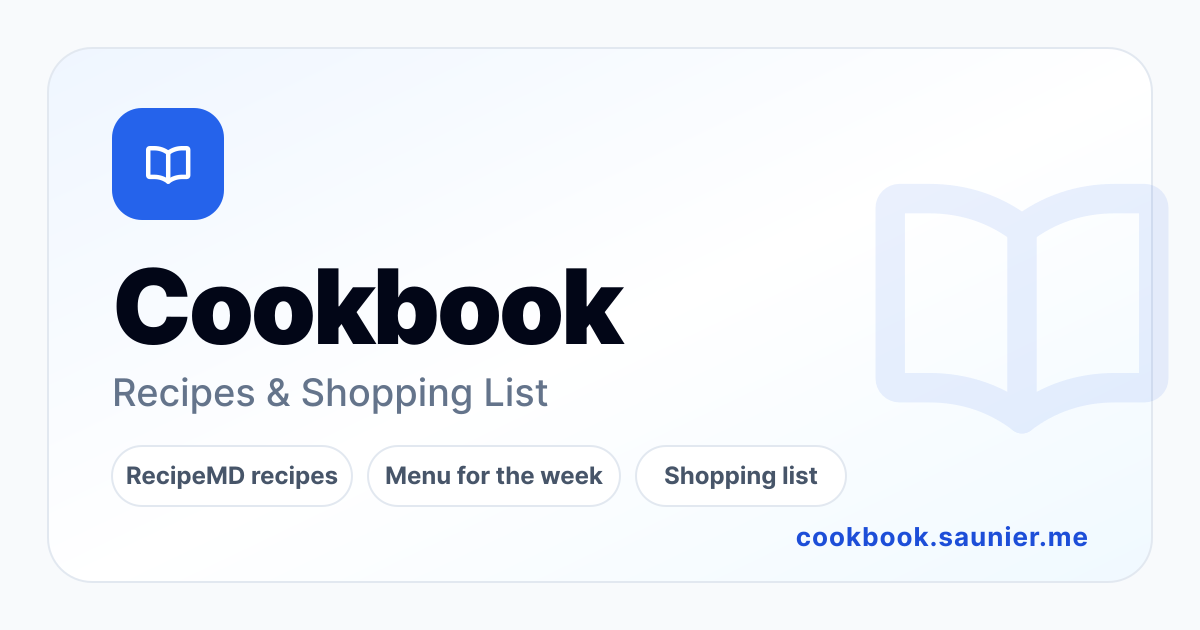
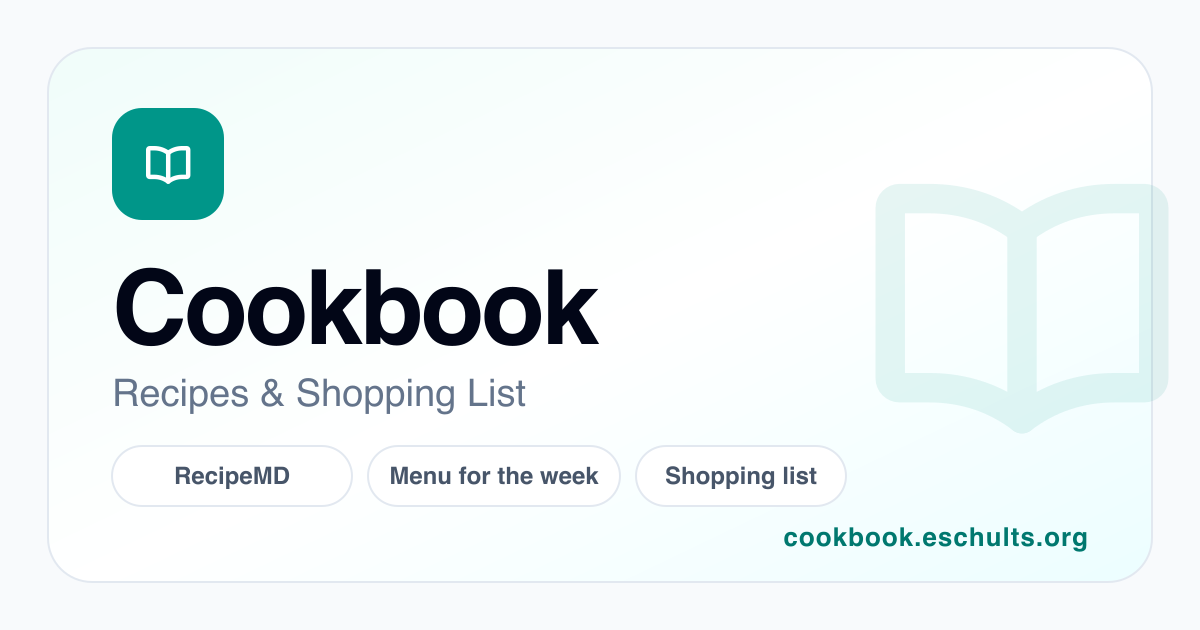
Change primary color to differentiate from original project

diff --git a/src/views/RecipeShowView.vue b/src/views/RecipeShowView.vue
@@ -45,7 +45,7 @@ function added(multiplier) {
     <RouterLink to="/" class="text-sm font-bold text-slate-400 hover:text-slate-700">← {{ t('recipe.back') }}</RouterLink>
 
     <article class="mt-5 overflow-hidden rounded-[2rem] border border-slate-200 bg-white shadow-sm">
-      <header class="border-b border-slate-100 bg-gradient-to-br from-blue-50 via-white to-sky-50 p-6 sm:p-10">
+      <header class="border-b border-slate-100 bg-gradient-to-br from-teal-50 via-white to-cyan-50 p-6 sm:p-10">
         <div class="flex flex-wrap gap-2">
           <span v-for="tag in recipe.tags" :key="tag" class="rounded-full bg-white px-3 py-1 text-xs font-bold text-slate-500 ring-1 ring-slate-200">{{ tag }}</span>
         </div>
@@ -57,7 +57,7 @@ function added(multiplier) {
           <button @click="showDialog = true" class="hidden shrink-0 rounded-2xl bg-slate-950 px-5 py-3 font-bold text-white shadow-sm transition hover:bg-slate-800 sm:block">＋ {{ t('recipe.addToList') }}</button>
         </div>
         <p v-if="recipe.description" class="mt-3 max-w-2xl whitespace-pre-line text-lg leading-8 text-slate-600">{{ recipe.description }}</p>
-        <p v-if="recipe.yields.length" class="mt-4 text-sm font-bold uppercase tracking-[0.14em] text-blue-700">
+        <p v-if="recipe.yields.length" class="mt-4 text-sm font-bold uppercase tracking-[0.14em] text-teal-700">
           {{ t('recipe.makes', { yields: recipe.yields.map(item => item.label).join(' · ') }) }}
         </p>
         <button @click="showDialog = true" class="mt-7 rounded-2xl bg-slate-950 px-5 py-3 font-bold text-white shadow-sm transition hover:bg-slate-800 sm:hidden">＋ {{ t('recipe.addToList') }}</button>
@@ -73,10 +73,10 @@ function added(multiplier) {
             <ul class="divide-y divide-slate-100">
               <li v-for="(ingredient, index) in group.items" :key="index" class="py-3">
                 <div class="flex gap-3">
-                  <span class="mt-2 size-2 shrink-0 rounded-full bg-blue-500"></span>
+                  <span class="mt-2 size-2 shrink-0 rounded-full bg-teal-500"></span>
                   <div>
                     <span v-if="ingredient.quantity != null" class="font-bold text-slate-900">{{ formatAmount(ingredient.quantity, ingredient.unit) }}</span>
-                    <a v-if="ingredient.link" :href="ingredient.link" target="_blank" rel="noreferrer" :class="['markdown font-medium text-blue-700 underline decoration-blue-300 underline-offset-2 hover:text-blue-800', { 'ml-1': ingredient.quantity != null }]" v-html="renderInline(displayName(ingredient))"></a>
+                    <a v-if="ingredient.link" :href="ingredient.link" target="_blank" rel="noreferrer" :class="['markdown font-medium text-teal-700 underline decoration-teal-300 underline-offset-2 hover:text-teal-800', { 'ml-1': ingredient.quantity != null }]" v-html="renderInline(displayName(ingredient))"></a>
                     <span v-else :class="['markdown font-medium text-slate-700', { 'ml-1': ingredient.quantity != null }]" v-html="renderInline(displayName(ingredient))"></span>
                   </div>
                 </div>
@@ -92,7 +92,7 @@ function added(multiplier) {
             <h3 v-if="group.title" class="text-xs font-black uppercase tracking-[0.14em] text-slate-400">{{ group.title }}</h3>
             <ol class="mt-3 space-y-4">
               <li v-for="(step, index) in group.steps" :key="index" class="flex gap-4">
-                <span class="grid size-8 shrink-0 place-items-center rounded-full bg-blue-100 text-sm font-black text-blue-800">{{ index + 1 }}</span>
+                <span class="grid size-8 shrink-0 place-items-center rounded-full bg-teal-100 text-sm font-black text-teal-800">{{ index + 1 }}</span>
                 <p class="markdown pt-1 font-medium leading-7 text-slate-700" v-html="renderInline(step)"></p>
               </li>
             </ol>
@@ -102,7 +102,7 @@ function added(multiplier) {
             <h3 class="text-xs font-black uppercase tracking-[0.14em] text-slate-400">{{ t('recipe.source', recipe.sources.length) }}</h3>
             <ul class="mt-2 space-y-1 text-sm">
               <li v-for="(source, index) in recipe.sources" :key="index">
-                <a v-if="source.url" :href="source.url" target="_blank" rel="noreferrer" class="text-blue-700 underline decoration-blue-300 underline-offset-2 hover:text-blue-800">{{ source.title }}</a>
+                <a v-if="source.url" :href="source.url" target="_blank" rel="noreferrer" class="text-teal-700 underline decoration-teal-300 underline-offset-2 hover:text-teal-800">{{ source.title }}</a>
                 <span v-else class="text-slate-500">{{ source.title }}</span>
               </li>
             </ul>
@@ -116,6 +116,6 @@ function added(multiplier) {
 
   <div v-else class="py-20 text-center">
     <h1 class="text-2xl font-black">{{ t('recipe.notFound') }}</h1>
-    <RouterLink to="/" class="mt-3 inline-block font-bold text-blue-600">{{ t('recipe.backToRecipes') }}</RouterLink>
+    <RouterLink to="/" class="mt-3 inline-block font-bold text-teal-600">{{ t('recipe.backToRecipes') }}</RouterLink>
   </div>
 </template>

diff --git a/src/components/AddShoppingItemDialog.vue b/src/components/AddShoppingItemDialog.vue
@@ -54,7 +54,7 @@ function submit() {
     <form @submit.prevent="submit" class="w-full max-w-md rounded-3xl bg-white p-6 shadow-2xl">
       <div class="flex items-start justify-between gap-4">
         <div>
-          <p class="text-xs font-black uppercase tracking-[0.18em] text-blue-600">{{ t('common.shoppingList') }}</p>
+          <p class="text-xs font-black uppercase tracking-[0.18em] text-teal-600">{{ t('common.shoppingList') }}</p>
           <h2 class="mt-1 text-2xl font-black text-slate-950">{{ t('addItem.title') }}</h2>
         </div>
         <button type="button" @click="$emit('cancel')" :aria-label="t('common.close')" class="rounded-xl p-2 text-slate-400 hover:bg-slate-100 hover:text-slate-700">✕</button>
@@ -70,7 +70,7 @@ function submit() {
           v-model="name"
           type="text"
           :placeholder="t('addItem.namePlaceholder')"
-          class="mt-2 w-full rounded-2xl border border-slate-200 px-4 py-3 text-lg font-bold outline-none focus:border-blue-400 focus:ring-4 focus:ring-blue-100"
+          class="mt-2 w-full rounded-2xl border border-slate-200 px-4 py-3 text-lg font-bold outline-none focus:border-teal-400 focus:ring-4 focus:ring-teal-100"
         />
       </div>
 
@@ -86,7 +86,7 @@ function submit() {
           type="text"
           inputmode="text"
           :aria-invalid="error ? 'true' : undefined"
-          :class="['mt-2 w-full rounded-2xl border px-4 py-3 text-lg font-bold outline-none focus:ring-4', error ? 'border-rose-300 focus:border-rose-400 focus:ring-rose-100' : 'border-slate-200 focus:border-blue-400 focus:ring-blue-100']"
+          :class="['mt-2 w-full rounded-2xl border px-4 py-3 text-lg font-bold outline-none focus:ring-4', error ? 'border-rose-300 focus:border-rose-400 focus:ring-rose-100' : 'border-slate-200 focus:border-teal-400 focus:ring-teal-100']"
         />
         <p v-if="error" class="mt-2 text-xs font-bold text-rose-600">{{ error }}</p>
         <p v-else class="mt-2 text-xs text-slate-400">{{ t('addItem.quantityHint') }}</p>
@@ -94,7 +94,7 @@ function submit() {
 
       <div class="mt-6 flex justify-end gap-2">
         <button type="button" @click="$emit('cancel')" class="rounded-2xl px-4 py-3 text-sm font-bold text-slate-500 hover:bg-slate-100">{{ t('common.cancel') }}</button>
-        <button type="submit" :disabled="!name.trim()" class="rounded-2xl bg-blue-600 px-5 py-3 text-sm font-black text-white hover:bg-blue-500 disabled:cursor-not-allowed disabled:bg-slate-200 disabled:text-slate-400">{{ t('addItem.add') }}</button>
+        <button type="submit" :disabled="!name.trim()" class="rounded-2xl bg-teal-600 px-5 py-3 text-sm font-black text-white hover:bg-teal-500 disabled:cursor-not-allowed disabled:bg-slate-200 disabled:text-slate-400">{{ t('addItem.add') }}</button>
       </div>
     </form>
   </div>

diff --git a/src/components/AddToShoppingListDialog.vue b/src/components/AddToShoppingListDialog.vue
@@ -50,7 +50,7 @@ function submit() {
     <div class="w-full max-w-md rounded-3xl bg-white p-6 shadow-2xl">
       <div class="flex items-start justify-between gap-4">
         <div>
-          <p class="text-xs font-black uppercase tracking-[0.18em] text-blue-600">{{ t('common.shoppingList') }}</p>
+          <p class="text-xs font-black uppercase tracking-[0.18em] text-teal-600">{{ t('common.shoppingList') }}</p>
           <h2 class="mt-1 text-2xl font-black text-slate-950">{{ t('dialog.scale', { title: recipe.title }) }}</h2>
         </div>
         <button @click="$emit('cancel')" :aria-label="t('common.close')" class="rounded-xl p-2 text-slate-400 hover:bg-slate-100 hover:text-slate-700">✕</button>
@@ -62,18 +62,18 @@ function submit() {
 
       <div v-if="hasServings" class="mt-5">
         <label class="text-sm font-bold text-slate-700">{{ t('dialog.people') }}</label>
-        <input v-model.number="servings" @input="syncMultiplier" min="0.1" step="0.5" type="number" class="mt-2 w-full rounded-2xl border border-slate-200 px-4 py-3 text-lg font-bold outline-none focus:border-blue-400 focus:ring-4 focus:ring-blue-100" />
+        <input v-model.number="servings" @input="syncMultiplier" min="0.1" step="0.5" type="number" class="mt-2 w-full rounded-2xl border border-slate-200 px-4 py-3 text-lg font-bold outline-none focus:border-teal-400 focus:ring-4 focus:ring-teal-100" />
       </div>
 
       <div class="mt-5">
         <label class="text-sm font-bold text-slate-700">{{ t('dialog.multiplier') }}</label>
-        <input v-model.number="multiplier" @input="syncServings" min="0.01" step="0.25" type="number" class="mt-2 w-full rounded-2xl border border-slate-200 px-4 py-3 text-lg font-bold outline-none focus:border-blue-400 focus:ring-4 focus:ring-blue-100" />
+        <input v-model.number="multiplier" @input="syncServings" min="0.01" step="0.25" type="number" class="mt-2 w-full rounded-2xl border border-slate-200 px-4 py-3 text-lg font-bold outline-none focus:border-teal-400 focus:ring-4 focus:ring-teal-100" />
         <p class="mt-2 text-xs text-slate-400">{{ example }}</p>
       </div>
 
       <div class="mt-6 flex justify-end gap-2">
         <button @click="$emit('cancel')" class="rounded-2xl px-4 py-3 text-sm font-bold text-slate-500 hover:bg-slate-100">{{ t('common.cancel') }}</button>
-        <button @click="submit" class="rounded-2xl bg-blue-600 px-5 py-3 text-sm font-black text-white hover:bg-blue-500">{{ t('dialog.add') }}</button>
+        <button @click="submit" class="rounded-2xl bg-teal-600 px-5 py-3 text-sm font-black text-white hover:bg-teal-500">{{ t('dialog.add') }}</button>
       </div>
     </div>
   </div>

diff --git a/src/App.vue b/src/App.vue
@@ -36,7 +36,7 @@ onMounted(() => refresh())
     <header class="sticky top-0 z-30 border-b border-slate-200/80 bg-white/90 backdrop-blur">
       <div class="mx-auto flex max-w-6xl items-center justify-between gap-4 px-4 py-3 sm:px-6">
         <RouterLink to="/" :aria-label="t('app.title')" class="flex min-w-0 items-center gap-3">
-          <span class="grid size-10 shrink-0 place-items-center rounded-2xl bg-blue-600 text-white shadow-sm">
+          <span class="grid size-10 shrink-0 place-items-center rounded-2xl bg-teal-600 text-white shadow-sm">
             <BrandMark class="size-5" />
           </span>
           <!-- On a narrow screen the mark alone stands for the app, leaving the
@@ -53,7 +53,7 @@ onMounted(() => refresh())
             :key="tab.name"
             :to="tab.to"
             :class="['rounded-xl px-3 py-2 text-sm font-semibold', route.name === tab.name ? 'bg-white text-slate-900 shadow-sm' : 'text-slate-500 hover:text-slate-900']"
-          >{{ tab.label }} <span v-if="tab.count" :class="['ml-1', tab.muted ? 'text-slate-400' : 'text-blue-600']">{{ tab.count }}</span></RouterLink>
+          >{{ tab.label }} <span v-if="tab.count" :class="['ml-1', tab.muted ? 'text-slate-400' : 'text-teal-600']">{{ tab.count }}</span></RouterLink>
         </nav>
       </div>
     </header>
@@ -65,7 +65,7 @@ onMounted(() => refresh())
            top. Only the very first, cache-less load gets it. -->
       <div v-if="loading && !recipes.length" class="grid min-h-[50vh] place-items-center">
         <div class="text-center">
-          <div class="mx-auto mb-4 size-10 animate-spin rounded-full border-4 border-slate-200 border-t-blue-600"></div>
+          <div class="mx-auto mb-4 size-10 animate-spin rounded-full border-4 border-slate-200 border-t-teal-600"></div>
           <p class="font-semibold text-slate-700">{{ t('app.loading') }}</p>
           <p class="mt-1 text-sm text-slate-400">{{ t('app.loadingHint') }}</p>
         </div>

diff --git a/src/views/ShoppingListView.vue b/src/views/ShoppingListView.vue
@@ -135,7 +135,7 @@ function formatQuantity(item) {
       <div class="mt-2 flex flex-wrap items-center gap-x-4 gap-y-2">
         <p class="text-slate-500">{{ t('list.remaining', { n: itemCount }) }} · {{ t('list.total', { n: totalCount }) }}</p>
         <div class="ml-auto flex items-center gap-1">
-          <button @click="showAddDialog = true" class="rounded-xl px-3 py-2 text-sm font-bold text-blue-600 hover:bg-blue-50">{{ t('list.addItem') }}</button>
+          <button @click="showAddDialog = true" class="rounded-xl px-3 py-2 text-sm font-bold text-teal-600 hover:bg-teal-50">{{ t('list.addItem') }}</button>
           <!-- Wiping the whole list is a rare, destructive action that a phone
                header has no room for: it stays a desktop affordance, where
                swipe-to-delete is not available either. -->
@@ -176,7 +176,7 @@ function formatQuantity(item) {
             @touchend="onTouchEnd(item)"
             class="flex cursor-pointer items-center gap-3 bg-white px-5 py-2.5 hover:bg-slate-50"
           >
-            <button @click.stop="toggleItem(item.id)" :aria-label="item.checked ? t('list.uncheck') : t('list.check')" :class="['grid size-6 shrink-0 place-items-center rounded-lg border-2 transition', item.checked ? 'border-emerald-500 bg-emerald-500 text-white' : 'border-slate-300 bg-white hover:border-blue-400']">
+            <button @click.stop="toggleItem(item.id)" :aria-label="item.checked ? t('list.uncheck') : t('list.check')" :class="['grid size-6 shrink-0 place-items-center rounded-lg border-2 transition', item.checked ? 'border-emerald-500 bg-emerald-500 text-white' : 'border-slate-300 bg-white hover:border-teal-400']">
               <span v-if="item.checked">✓</span>
             </button>
             <!-- One line per item: which recipe it came from is not something

diff --git a/src/views/RecipeIndexView.vue b/src/views/RecipeIndexView.vue
@@ -66,13 +66,13 @@ onUnmounted(() => window.removeEventListener('keydown', focusOnSlash))
       <h1 class="text-4xl font-black tracking-tight text-slate-950">{{ t('nav.recipes') }}</h1>
       <div class="w-full sm:max-w-sm">
         <label class="sr-only" for="recipe-search">{{ t('index.searchLabel') }}</label>
-        <input id="recipe-search" ref="searchInput" v-model="query" type="search" :placeholder="t('index.searchPlaceholder')" class="w-full rounded-2xl border border-slate-200 bg-white px-4 py-3 outline-none ring-blue-200 transition focus:ring-4" />
+        <input id="recipe-search" ref="searchInput" v-model="query" type="search" :placeholder="t('index.searchPlaceholder')" class="w-full rounded-2xl border border-slate-200 bg-white px-4 py-3 outline-none ring-teal-200 transition focus:ring-4" />
       </div>
     </div>
 
     <div v-if="tags.length" class="mb-6 flex flex-wrap gap-2">
       <button @click="tag = ''" :class="['rounded-full px-3 py-1.5 text-sm font-semibold', !tag ? 'bg-slate-900 text-white' : 'bg-white text-slate-500 ring-1 ring-slate-200 hover:text-slate-900']">{{ t('index.all') }}</button>
-      <button v-for="item in tags" :key="item" @click="tag = item" :class="['rounded-full px-3 py-1.5 text-sm font-semibold', tag === item ? 'bg-blue-600 text-white' : 'bg-white text-slate-500 ring-1 ring-slate-200 hover:text-slate-900']">{{ item }}</button>
+      <button v-for="item in tags" :key="item" @click="tag = item" :class="['rounded-full px-3 py-1.5 text-sm font-semibold', tag === item ? 'bg-teal-600 text-white' : 'bg-white text-slate-500 ring-1 ring-slate-200 hover:text-slate-900']">{{ item }}</button>
     </div>
 
     <div v-if="filtered.length" class="grid gap-4 sm:grid-cols-2 lg:grid-cols-3">

diff --git a/src/views/MenuView.vue b/src/views/MenuView.vue
@@ -53,7 +53,7 @@ function confirmRemove(entry) {
           <div class="min-w-0 flex-1">
             <h2 class="flex items-center gap-2 truncate font-black text-slate-900">
               {{ entry.recipe?.title || entry.recipeId }}
-              <span class="shrink-0 rounded-full bg-blue-50 px-2 py-0.5 text-xs font-bold text-blue-700">×{{ formatMultiplier(entry.multiplier) }}</span>
+              <span class="shrink-0 rounded-full bg-teal-50 px-2 py-0.5 text-xs font-bold text-teal-700">×{{ formatMultiplier(entry.multiplier) }}</span>
             </h2>
             <p v-if="entry.recipe?.description" class="mt-0.5 truncate text-sm text-slate-500">{{ entry.recipe.description }}</p>
             <p v-if="!entry.recipe" class="mt-0.5 text-xs text-rose-500">{{ t('menu.stale') }}</p>
@@ -61,7 +61,7 @@ function confirmRemove(entry) {
           <!-- The row already names the recipe, so on a phone the verb alone
                says everything the longer label does, and leaves the title
                room to breathe rather than truncating it further. -->
-          <RouterLink v-if="entry.recipe" :to="`/r/${entry.recipe.slug}`" :aria-label="t('menu.openRecipe')" class="shrink-0 text-sm font-black text-blue-600 hover:text-blue-700">
+          <RouterLink v-if="entry.recipe" :to="`/r/${entry.recipe.slug}`" :aria-label="t('menu.openRecipe')" class="shrink-0 text-sm font-black text-teal-600 hover:text-teal-700">
             <span class="sm:hidden">{{ t('menu.open') }}</span>
             <span class="hidden sm:inline">{{ t('menu.openRecipe') }}</span> →
           </RouterLink>

diff --git a/src/components/RecipeCard.vue b/src/components/RecipeCard.vue
@@ -7,9 +7,9 @@ const { t } = useI18n()
 </script>
 
 <template>
-  <RouterLink :to="`/r/${recipe.slug}`" class="group min-w-0 rounded-3xl border border-slate-200 bg-white p-5 shadow-sm transition hover:-translate-y-0.5 hover:border-blue-300 hover:shadow-md">
+  <RouterLink :to="`/r/${recipe.slug}`" class="group min-w-0 rounded-3xl border border-slate-200 bg-white p-5 shadow-sm transition hover:-translate-y-0.5 hover:border-teal-300 hover:shadow-md">
     <div class="mb-5 flex items-start justify-between gap-3">
-      <span class="rounded-full bg-blue-50 px-2.5 py-1 text-xs font-bold text-blue-700">{{ t('index.ingredients', { n: recipe.ingredients.length }) }}</span>
+      <span class="rounded-full bg-teal-50 px-2.5 py-1 text-xs font-bold text-teal-700">{{ t('index.ingredients', { n: recipe.ingredients.length }) }}</span>
       <span class="text-xl transition group-hover:rotate-6">🍽</span>
     </div>
     <h2 class="text-xl font-black text-slate-900">{{ recipe.title }}</h2>
@@ -17,6 +17,6 @@ const { t } = useI18n()
     <div v-if="recipe.tags?.length" class="mt-4 flex flex-wrap gap-1.5">
       <span v-for="item in recipe.tags.slice(0, 3)" :key="item" class="text-xs font-semibold text-slate-400">#{{ item }}</span>
     </div>
-    <div class="mt-5 text-sm font-bold text-blue-600 group-hover:text-blue-700">{{ t('index.viewRecipe') }} →</div>
+    <div class="mt-5 text-sm font-bold text-teal-600 group-hover:text-teal-700">{{ t('index.viewRecipe') }} →</div>
   </RouterLink>
 </template>

diff --git a/test/components/App.spec.js b/test/components/App.spec.js
@@ -47,13 +47,13 @@ describe('App', () => {
     expect(app.text()).toContain('abc1234')
   })
 
-  it('shows the recipe count in the nav, in grey rather than the counter blue', async () => {
+  it('shows the recipe count in the nav, in grey rather than the counter teal', async () => {
     const app = await mountApp()
     const badge = app.find('nav a[href="/"] span')
 
     expect(badge.text()).toBe('1')
     expect(badge.classes()).toContain('text-slate-400')
-    expect(badge.classes()).not.toContain('text-blue-600')
+    expect(badge.classes()).not.toContain('text-teal-600')
   })
 
   it('keeps only the brand mark in the header on a narrow screen', async () => {

diff --git a/src/style.css b/src/style.css
@@ -27,14 +27,14 @@ button {
  * carry utility classes, so the handful of tags it can emit are styled here.
  */
 .markdown a {
-  color: var(--color-blue-700);
+  color: var(--color-teal-700);
   text-decoration: underline;
-  text-decoration-color: var(--color-blue-300);
+  text-decoration-color: var(--color-teal-300);
   text-underline-offset: 2px;
 }
 
 .markdown a:hover {
-  color: var(--color-blue-800);
+  color: var(--color-teal-800);
 }
 
 .markdown code {
